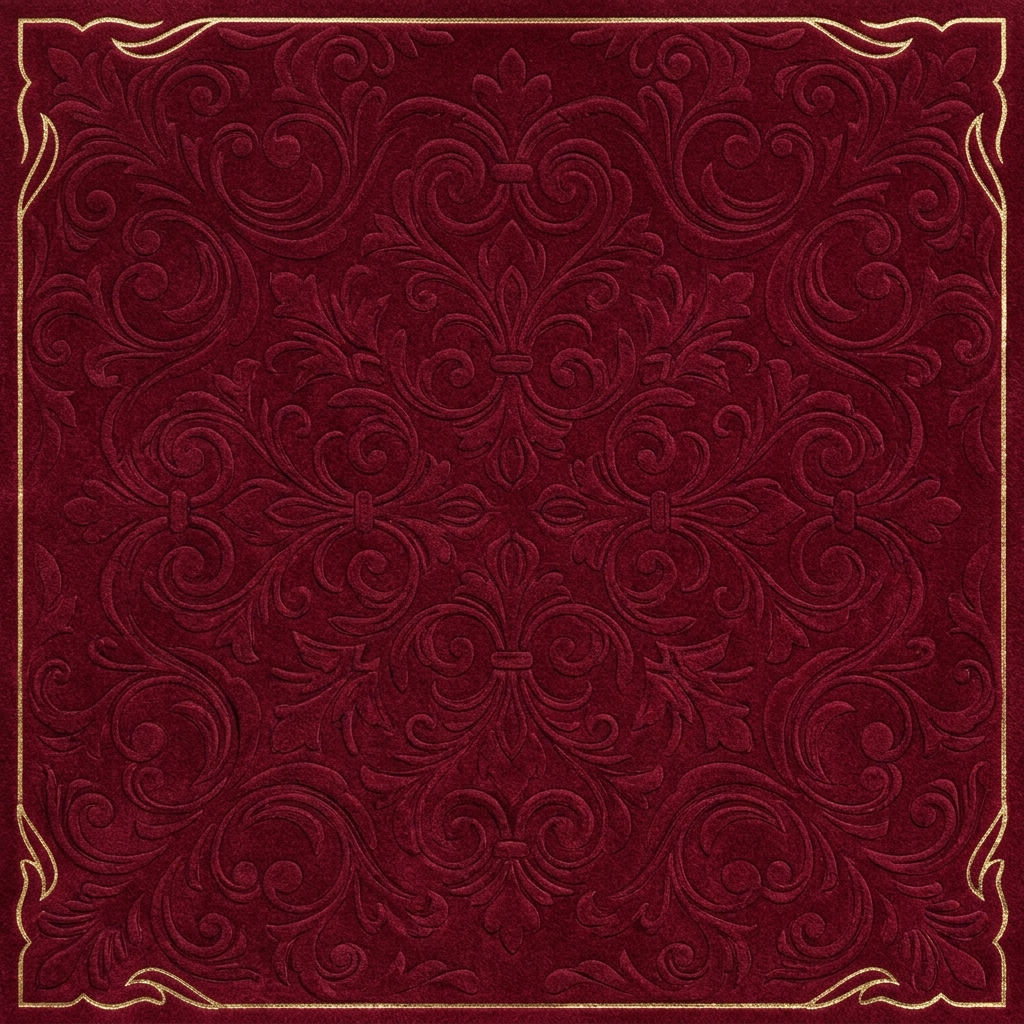
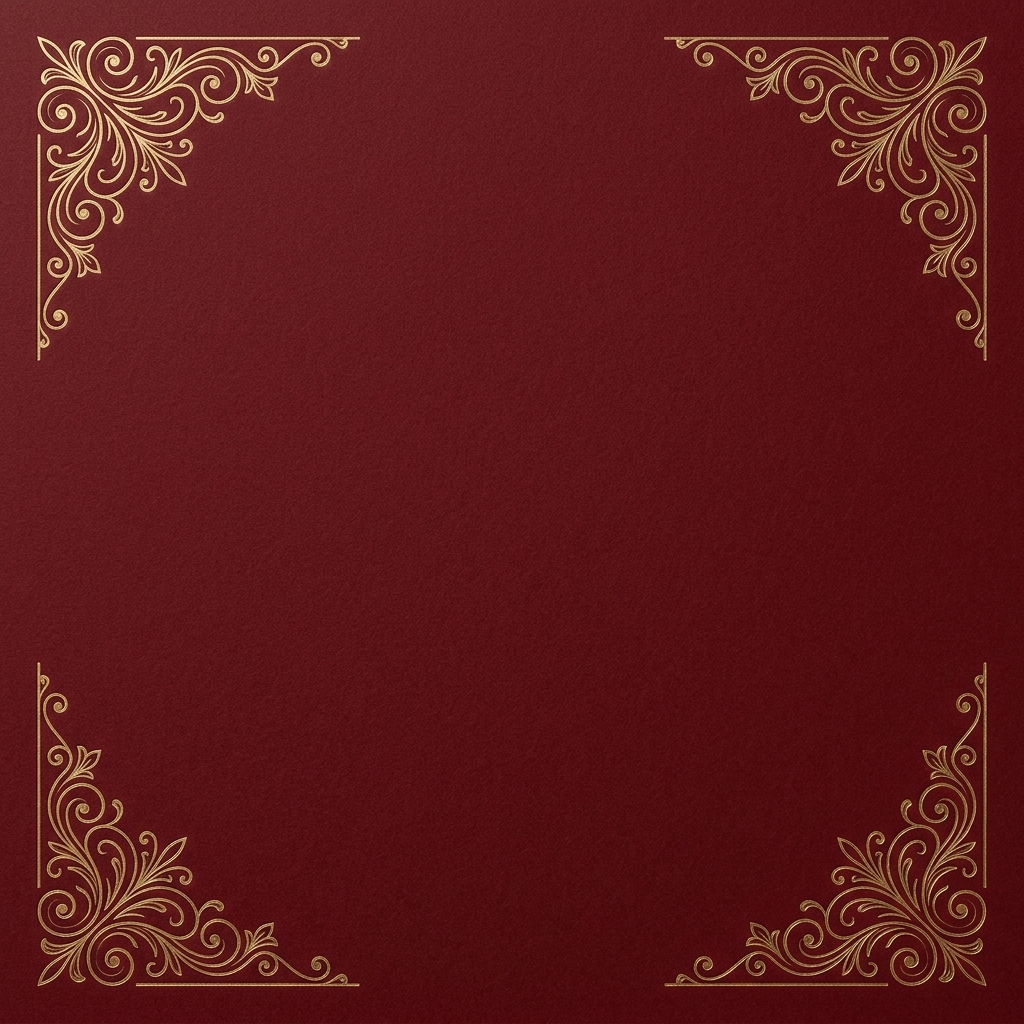
Replace velvet fabric texture with smooth matte dark red cardstock paper texture with gold filigree corner ornaments

diff --git a/index.html b/index.html
@@ -49,7 +49,7 @@
     <link rel="apple-touch-icon" href="images/logo.png" />
 
     <!-- Custom CSS -->
-    <link rel="stylesheet" href="css/style.css?v=27.0" />
+    <link rel="stylesheet" href="css/style.css?v=28.0" />
   </head>
   <body>
     <!-- Top Announcement Bar -->
